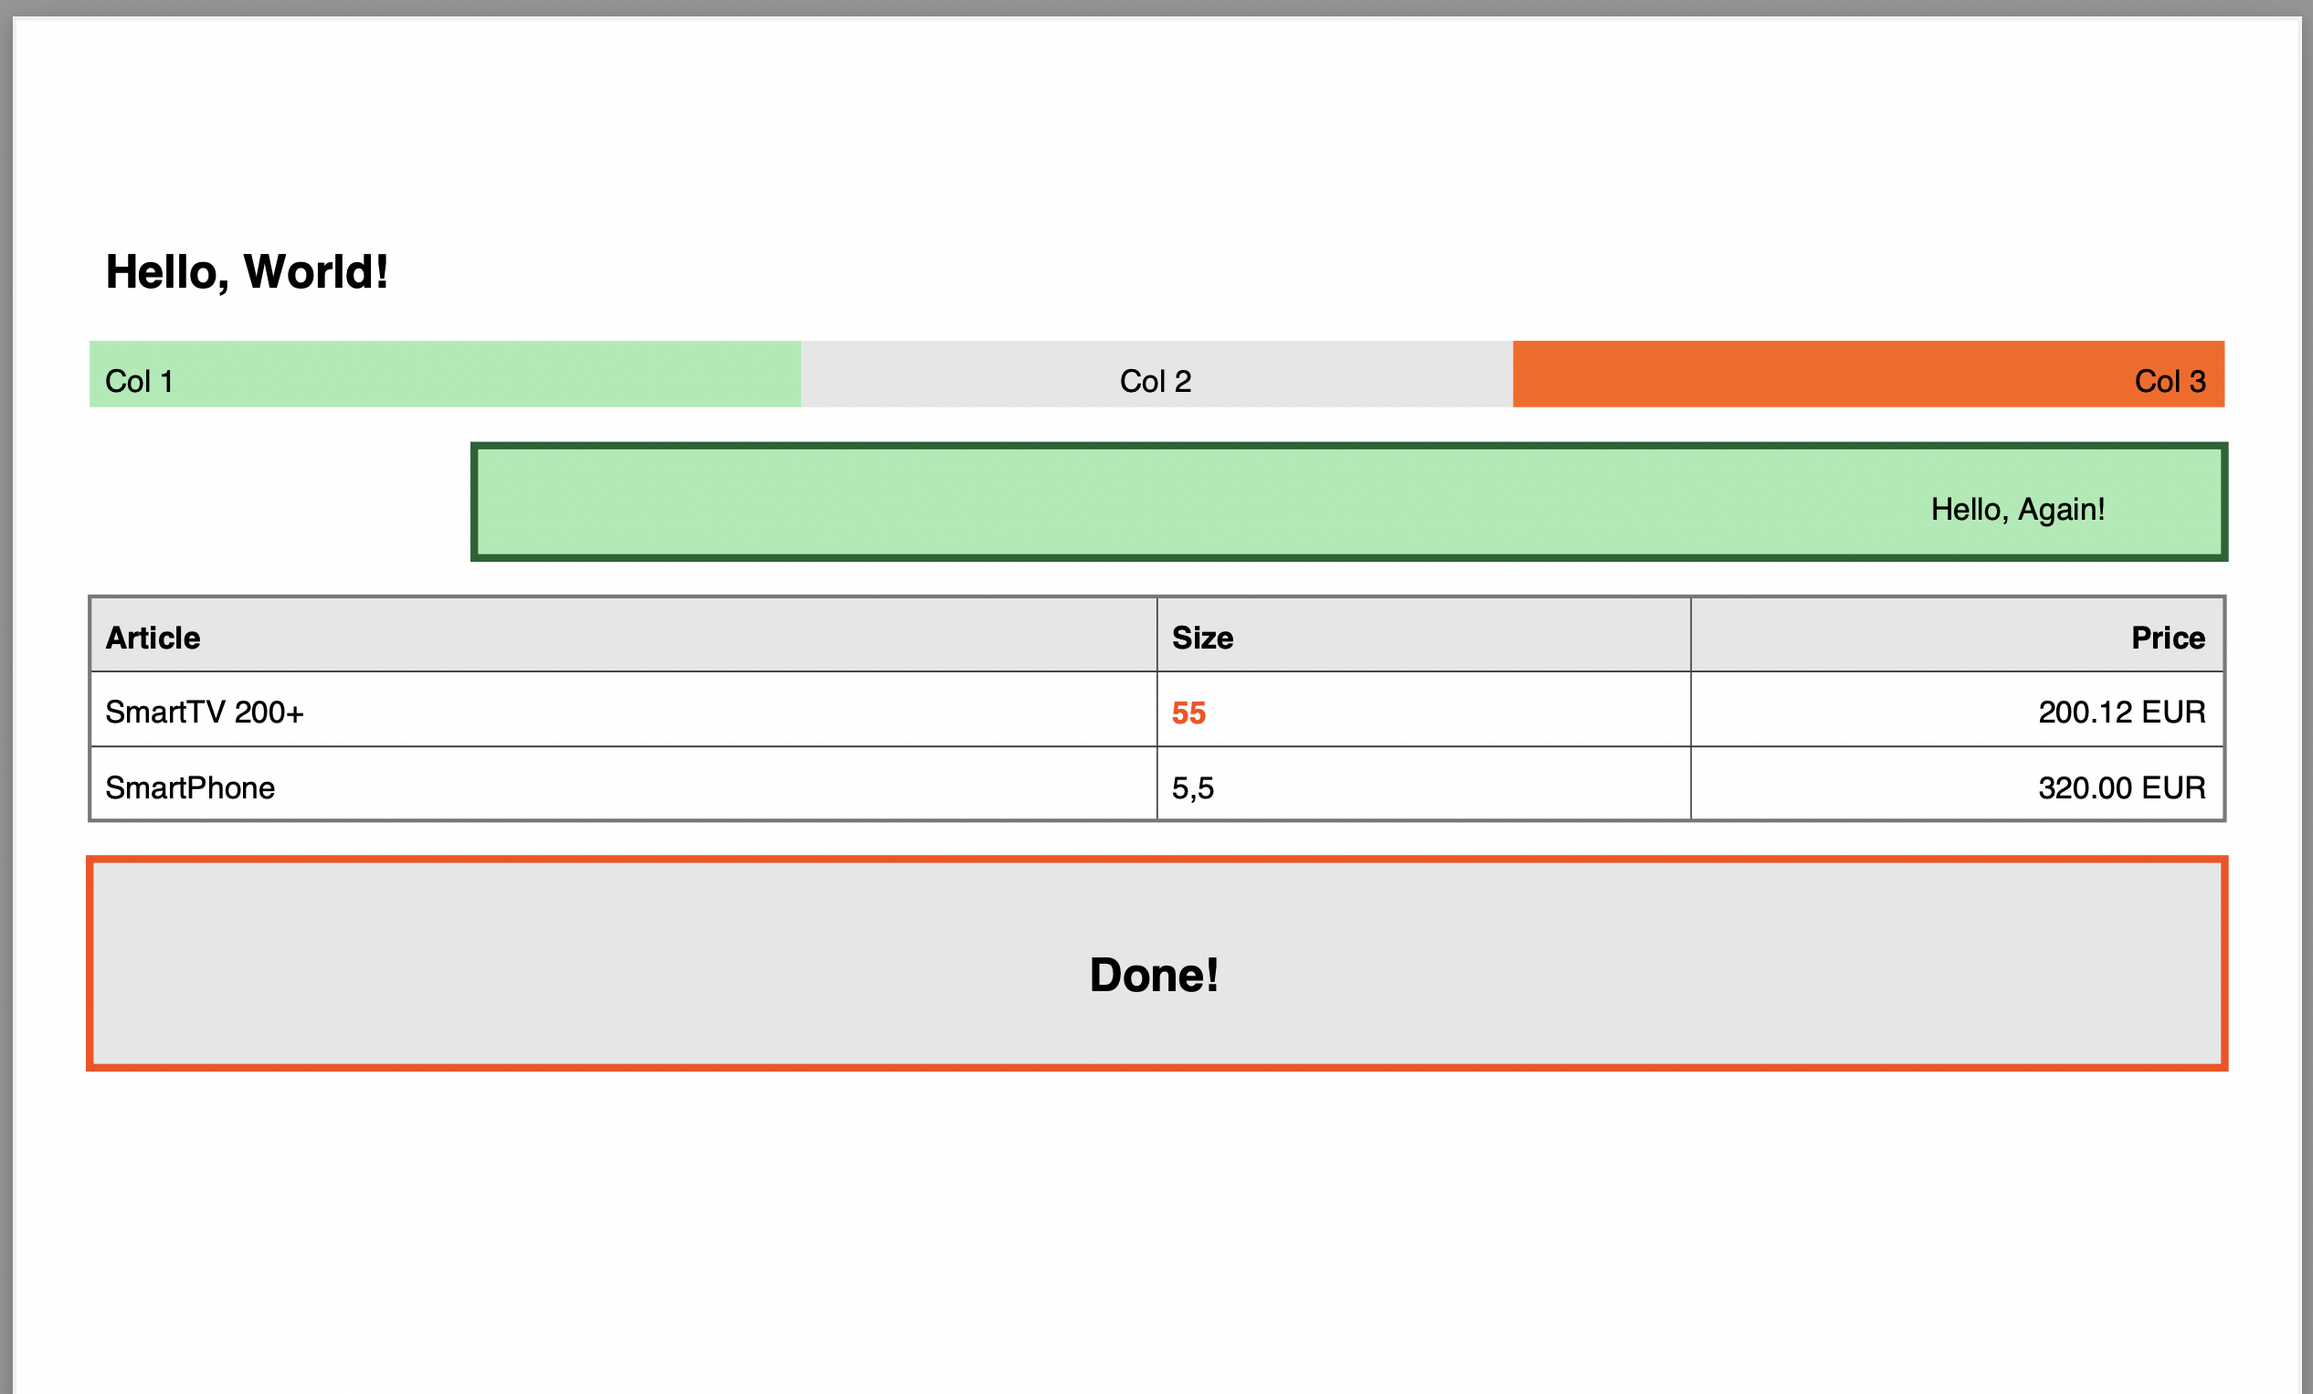
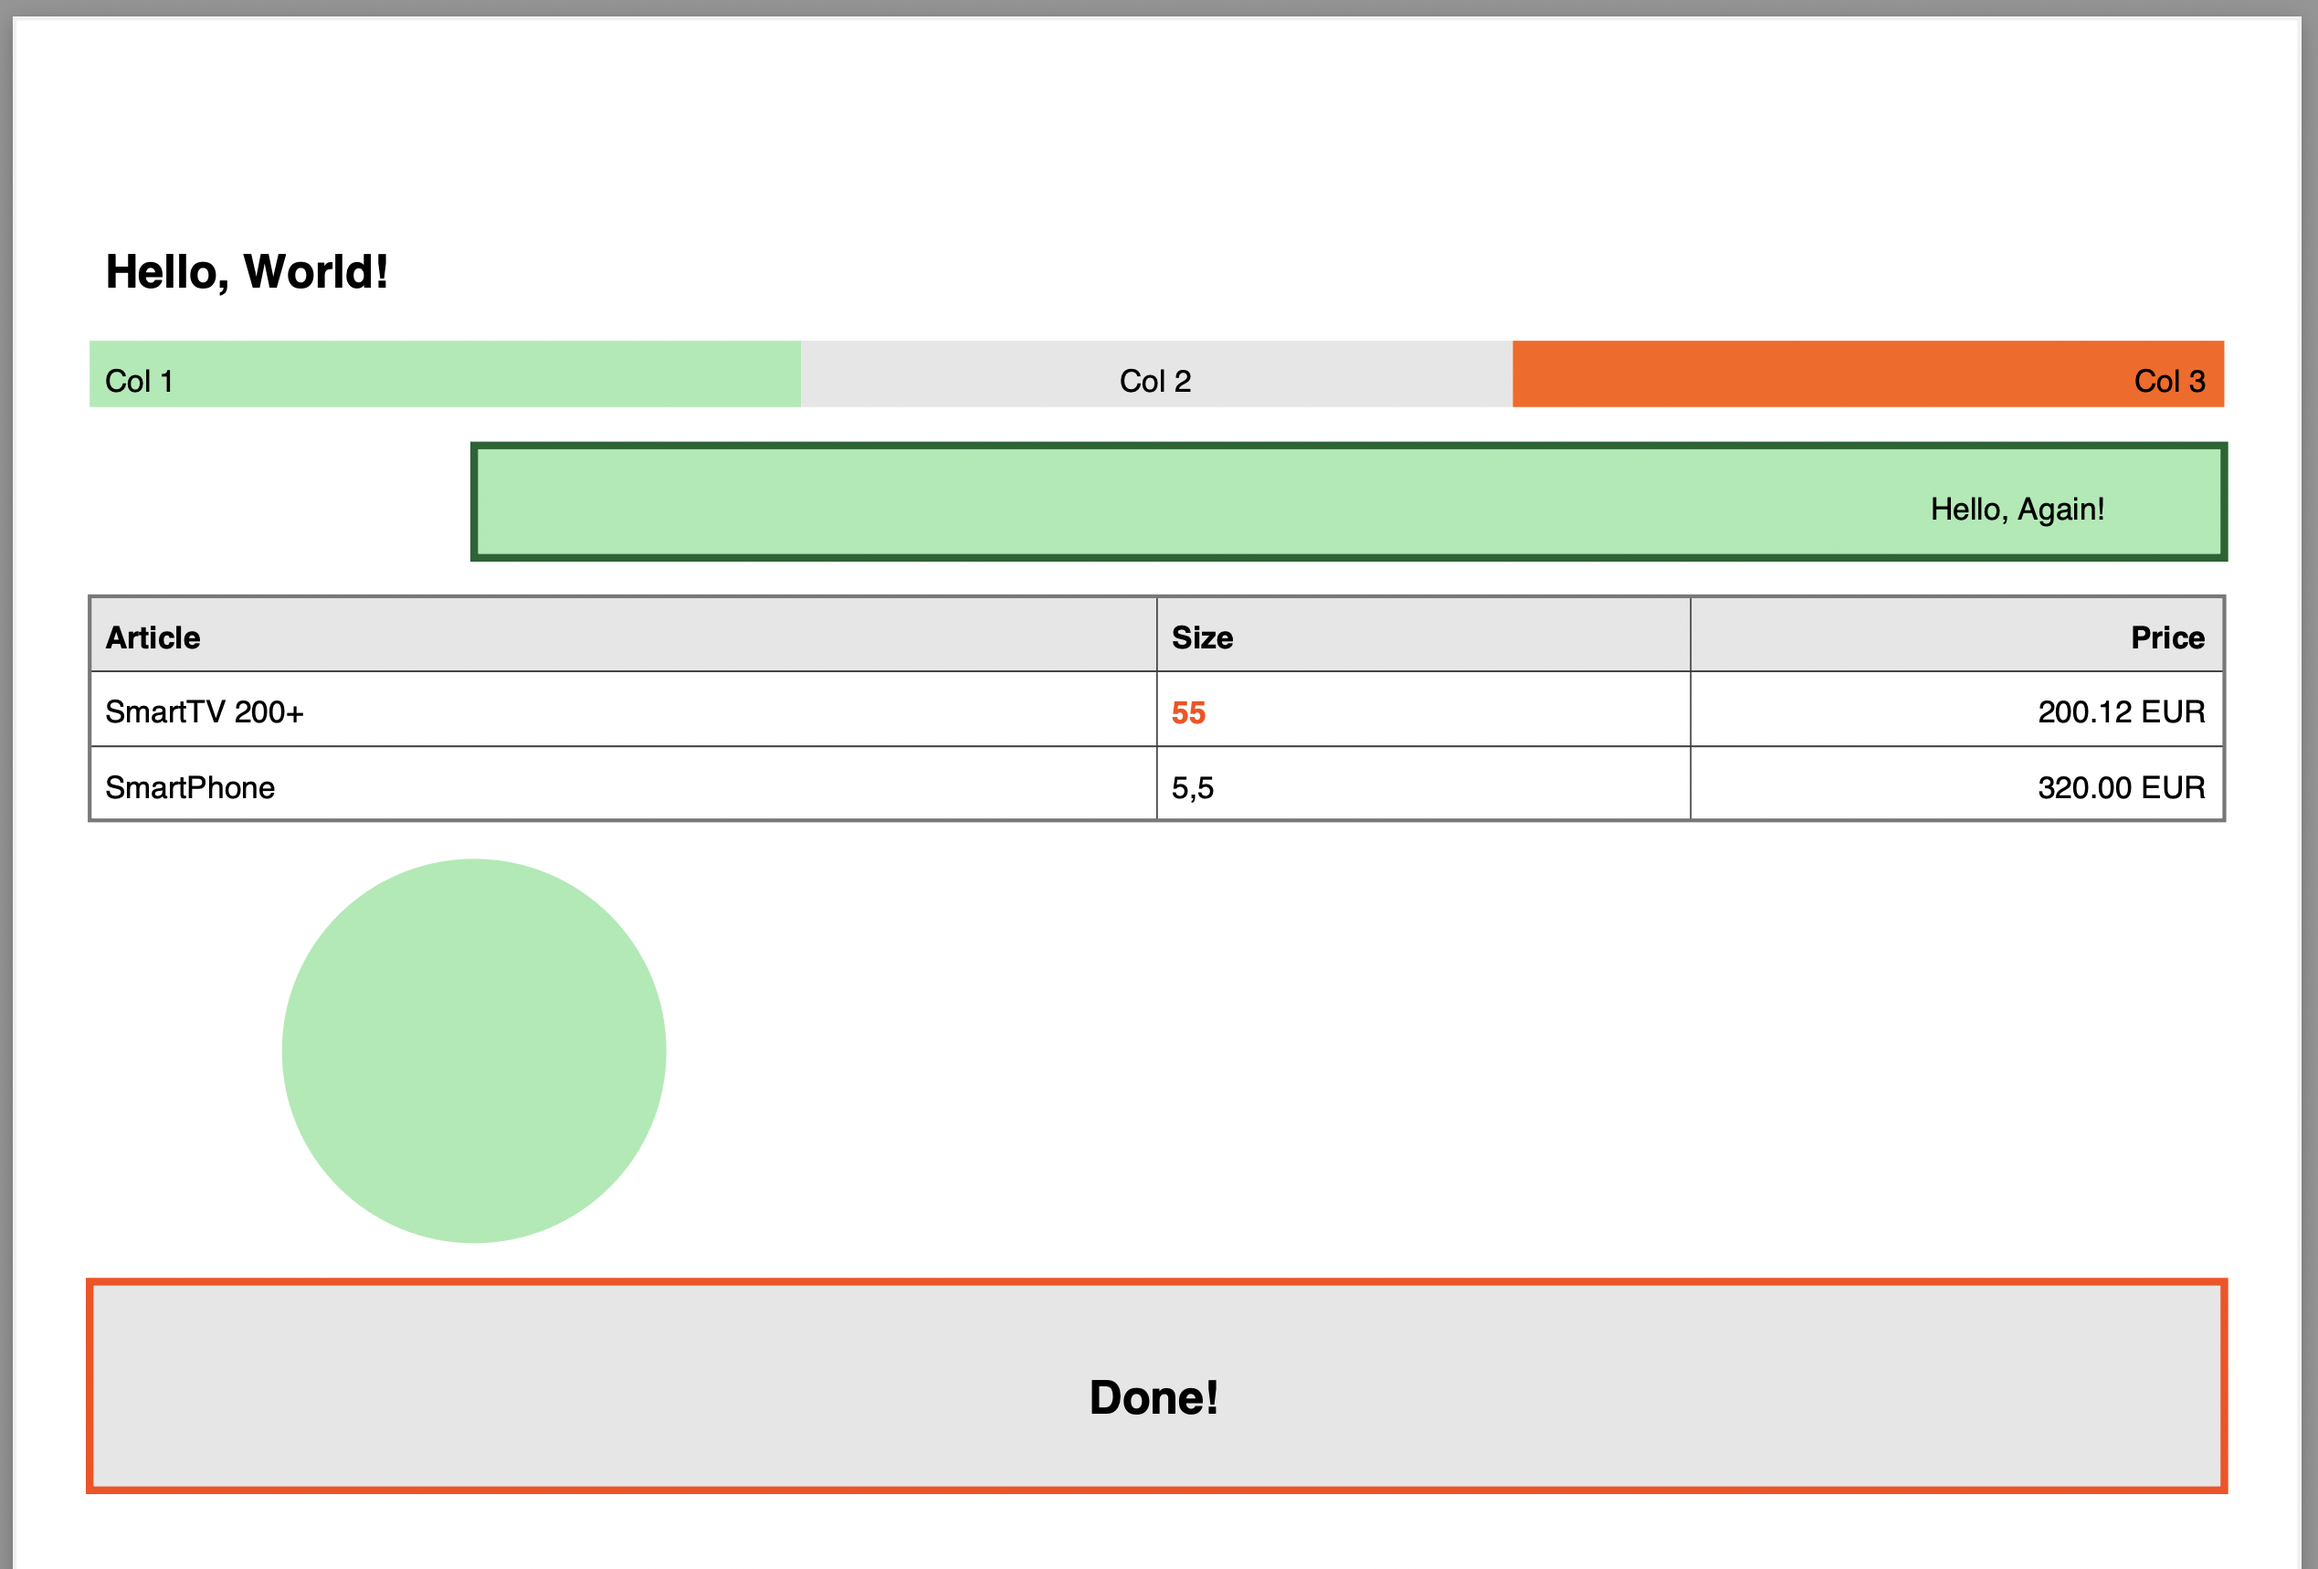
Added Canvas element for custom painting

diff --git a/src/main/java/inspired/pdf/unbox/elements/Canvas.java b/src/main/java/inspired/pdf/unbox/elements/Canvas.java
@@ -1,0 +1,51 @@
+package inspired.pdf.unbox.elements;
+
+import inspired.pdf.unbox.Bounds;
+import inspired.pdf.unbox.LinearPDFWriter;
+import inspired.pdf.unbox.elements.internal.AbstractPdfElement;
+import inspired.pdf.unbox.internal.PdfUnboxException;
+import org.apache.pdfbox.pdmodel.PDPageContentStream;
+
+import java.awt.*;
+import java.io.IOException;
+
+/**
+ * A canvas gives direct access to the PDPageContentStream and allows painting arbitrarily items.
+ */
+public abstract class Canvas extends AbstractPdfElement {
+
+    private final float innerHeight;
+
+    public Canvas(float innerhHeight) {
+        this.innerHeight = innerhHeight;
+    }
+
+    public abstract void paint(PDPageContentStream contentStream, Bounds viewPort) throws IOException;
+
+    protected void drawCircle(PDPageContentStream contentStream, float cx, float cy, float r, Color color) throws IOException {
+        final float k = 0.552284749831f;
+        contentStream.setNonStrokingColor(color);
+        contentStream.moveTo(cx - r, cy);
+        contentStream.curveTo(cx - r, cy + k * r, cx - k * r, cy + r, cx, cy + r);
+        contentStream.curveTo(cx + k * r, cy + r, cx + r, cy + k * r, cx + r, cy);
+        contentStream.curveTo(cx + r, cy - k * r, cx + k * r, cy - r, cx, cy - r);
+        contentStream.curveTo(cx - k * r, cy - r, cx - r, cy - k * r, cx - r, cy);
+        contentStream.fill();
+    }
+
+    @Override
+    public float render(LinearPDFWriter writer, Bounds viewPort) {
+        try {
+            paint(writer.getContentStream(), viewPort.height(innerHeight));
+            return innerHeight + margin().vertical();
+        } catch (IOException e) {
+            throw new PdfUnboxException(e);
+        }
+    }
+
+    @Override
+    public float innerHeight(Bounds viewPort) {
+        return innerHeight;
+    }
+
+}

diff --git a/samples/src/main/java/samples/SimplePdf.java b/samples/src/main/java/samples/SimplePdf.java
@@ -1,13 +1,11 @@
 package samples;
 
-import inspired.pdf.unbox.Align;
-import inspired.pdf.unbox.LinearPDFWriter;
-import inspired.pdf.unbox.Margin;
-import inspired.pdf.unbox.Padding;
+import inspired.pdf.unbox.*;
 import inspired.pdf.unbox.base.TableModel;
 import inspired.pdf.unbox.elements.*;
 import inspired.pdf.unbox.themes.UnboxTheme;
 import org.apache.pdfbox.pdmodel.PDDocument;
+import org.apache.pdfbox.pdmodel.PDPageContentStream;
 
 import java.io.IOException;
 
@@ -54,6 +52,14 @@ public class SimplePdf {
                 .addCell("200.12 EUR");
         table.addRow().withCells("SmartPhone", "5,5", "320.00 EUR");
         writer.render(table);
+
+        // render some graphics on a canvas
+        writer.render(new Canvas(100) {
+            @Override
+            public void paint(PDPageContentStream contentStream, Bounds viewPort) throws IOException {
+                drawCircle(contentStream, viewPort.left() + 100, viewPort.top() -50, 50, NEON_GREEN);
+            }
+        }.with(Margin.bottom(10)));
 
         writer.render(paragraph("Done!", Align.CENTER, helvetica_bold(12))
                 .with(Padding.of(20))

diff --git a/src/main/java/inspired/pdf/unbox/elements/internal/AbstractPdfElement.java b/src/main/java/inspired/pdf/unbox/elements/internal/AbstractPdfElement.java
@@ -1,0 +1,20 @@
+package inspired.pdf.unbox.elements.internal;
+
+import inspired.pdf.unbox.Margin;
+import inspired.pdf.unbox.elements.PdfElement;
+
+public abstract class AbstractPdfElement implements PdfElement {
+
+    private Margin margin = Margin.none();
+
+    public PdfElement with(Margin margin) {
+        this.margin = margin;
+        return this;
+    }
+
+    @Override
+    public Margin margin() {
+        return margin;
+    }
+
+}

diff --git a/README.md b/README.md
@@ -9,6 +9,7 @@ A lot of concepts are borrowed from HTML, like Margins, Paddings and Borders.
 
 The following code shows by example how to use this toolkit.
 
+
 ```Java
 LinearPDFWriter writer = new LinearPDFWriter();
 
@@ -44,6 +45,14 @@ table.addRow()
         .addCell("200.12 EUR");
 table.addRow().withCells("SmartPhone", "5,5", "320.00 EUR");
 writer.render(table);
+
+// render some graphics on a canvas
+writer.render(new Canvas(100) {
+    @Override
+    public void paint(PDPageContentStream contentStream, Bounds viewPort) throws IOException {
+        drawCircle(contentStream, viewPort.left() + 100, viewPort.top() -50, 50, NEON_GREEN);
+    }
+}.with(Margin.bottom(10)));
 
 writer.render(paragraph("Done!", Align.CENTER, helvetica_bold(12))
         .with(Padding.of(20))
